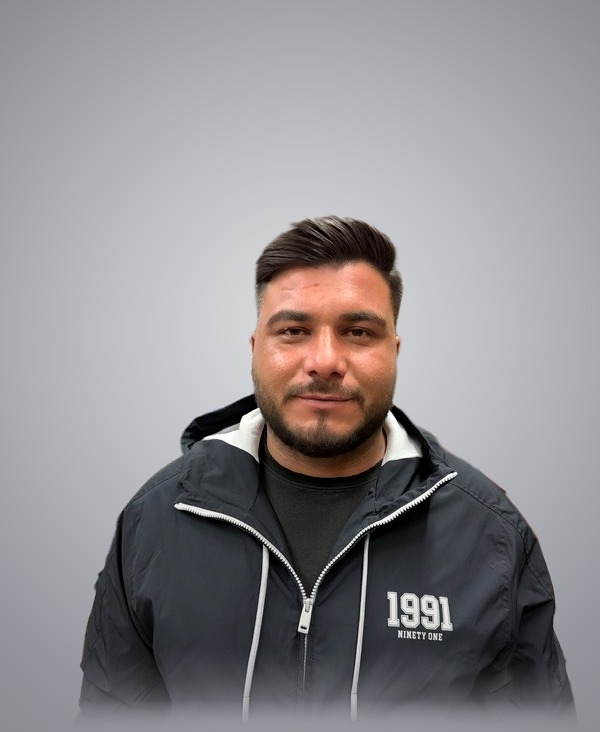
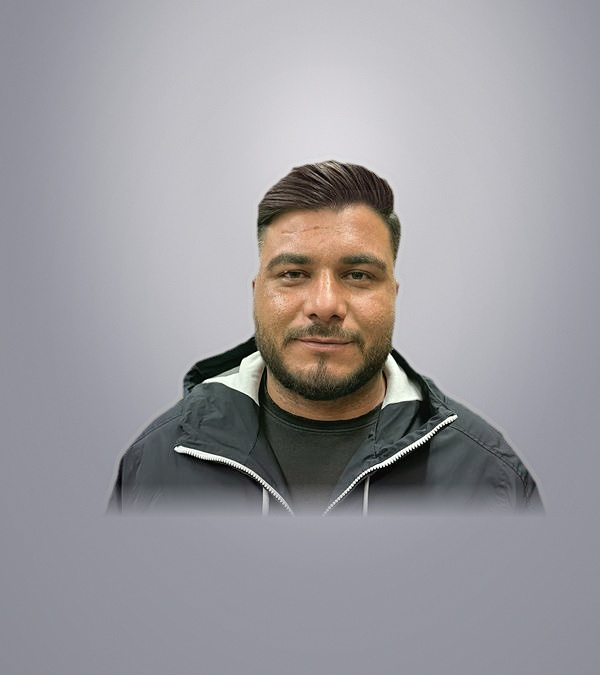
Upgrade all 13 after portraits with v45 pipeline + bump cache to v4
Enhanced MODNet pipeline with pre-composite edge cleanup, per-person
edge smoothing, soft width clipping, and wide-band decontamination.
All 10 persons (13 images including dedicated bg variants) reprocessed.

Claude-Session: https://claude.ai/code/session_01Qm7sxJDfaTmQ9qG7MzR673

diff --git a/src/config/stock-portraits.ts b/src/config/stock-portraits.ts
@@ -12,7 +12,7 @@
 const BRAND_WEB = '/brand/tailorpic/web';
 
 /** Cache-busting version — increment when brand images are updated */
-const BRAND_IMG_VERSION = '3';
+const BRAND_IMG_VERSION = '4';
 
 /* ------------------------------------------------------------------ */
 /*  Helpers                                                            */

diff --git a/src/config/category-visuals.ts b/src/config/category-visuals.ts
@@ -54,7 +54,7 @@ const CATEGORY_IMG = '/images/categories';
 const BRAND_WEB = '/brand/tailorpic/web';
 
 /** Cache-busting version — increment when brand images are updated */
-const BRAND_IMG_V = '3';
+const BRAND_IMG_V = '4';
 
 function asset(src: string, alt: string, pos: Pos): ImageAsset {
   // Add cache-busting for brand images

diff --git a/src/components/marketing/instant-preview-demo.tsx b/src/components/marketing/instant-preview-demo.tsx
@@ -10,7 +10,7 @@ import { Camera, Sparkles, ArrowRight } from 'lucide-react';
 /* ------------------------------------------------------------------ */
 
 /** Cache-busting version — increment when brand images are updated */
-const V = '?v=3';
+const V = '?v=4';
 
 const STYLE_CATEGORIES = [
   {

diff --git a/src/app/samples/page.tsx b/src/app/samples/page.tsx
@@ -100,7 +100,7 @@ const qualityBadges = [
 ];
 
 /** Cache-busting version — increment when brand images are updated */
-const V = '?v=3';
+const V = '?v=4';
 
 const styleGroupImages: Record<string, SampleImage[]> = {
   Corporate: [
